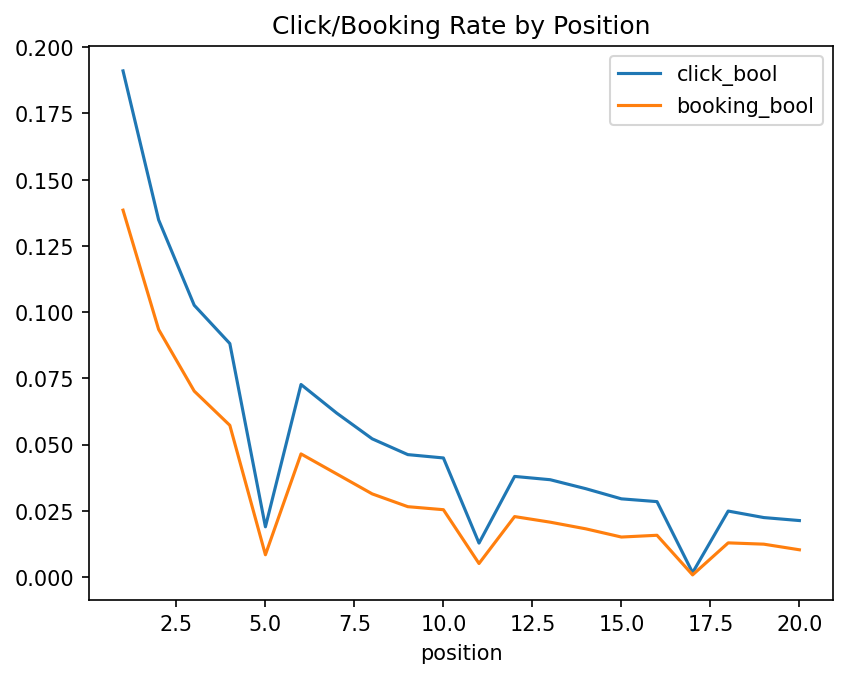
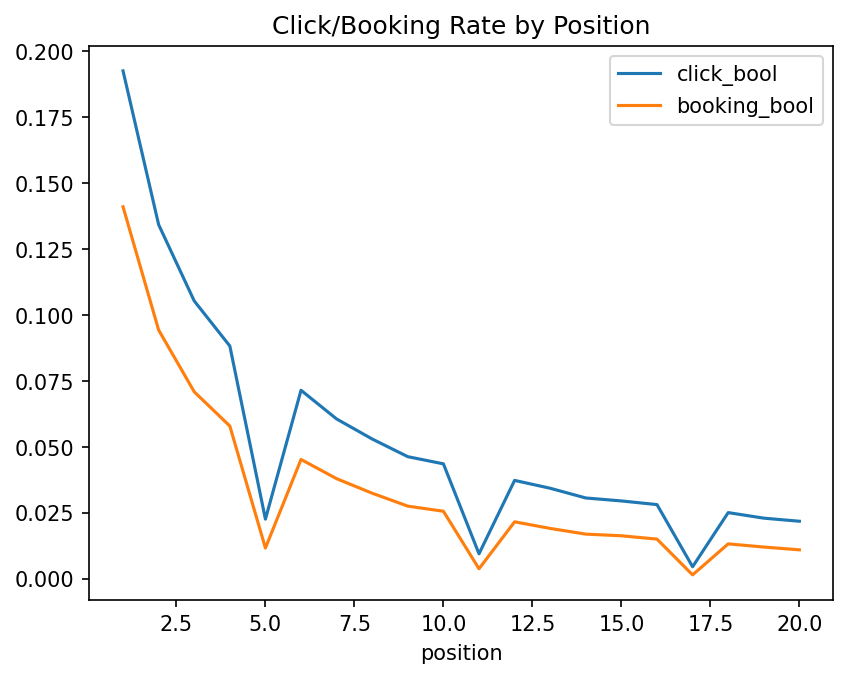
EDA done and results examined w full train set

diff --git a/eda.py b/eda.py
@@ -7,9 +7,9 @@ TRAIN_PATH = "training_set_VU_DM.csv"
 nRows = 500_000
 
 #load small sample of the data
-print(f"Loading first {nRows:,} rows from {TRAIN_PATH}")
-dfTrain = pd.read_csv(TRAIN_PATH, nrows=nRows, low_memory=False)
-dfTest = pd.read_csv(TEST_PATH, nrows=nRows, low_memory=False)
+#print(f"Loading first {nRows:,} rows from {TRAIN_PATH}")
+dfTrain = pd.read_csv(TRAIN_PATH, low_memory=False)
+dfTest = pd.read_csv(TEST_PATH, low_memory=False)
 
 
 #check the shape of the rows
